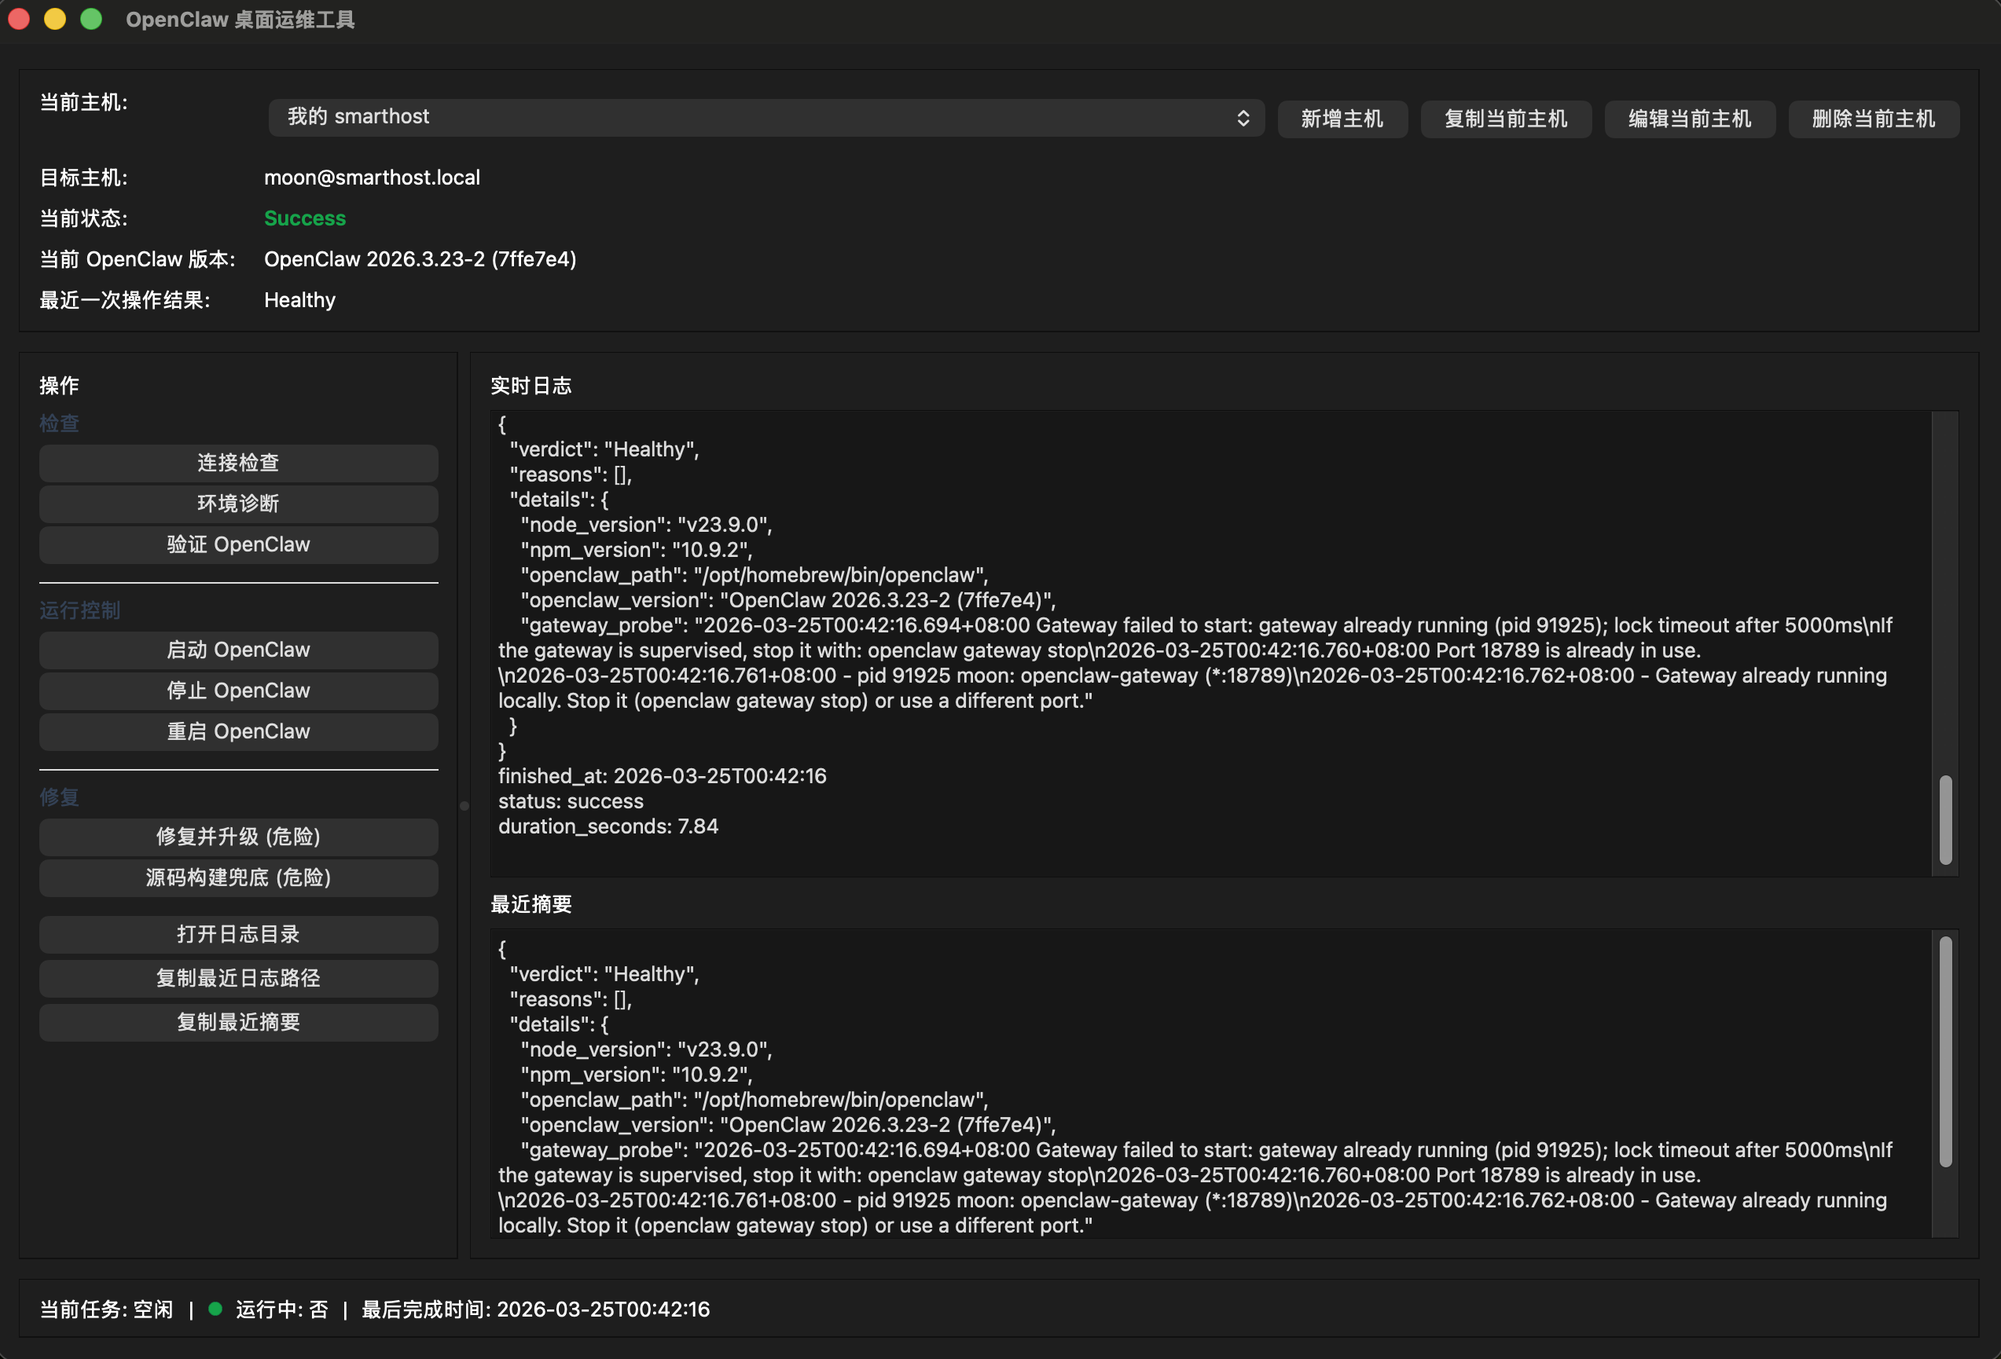
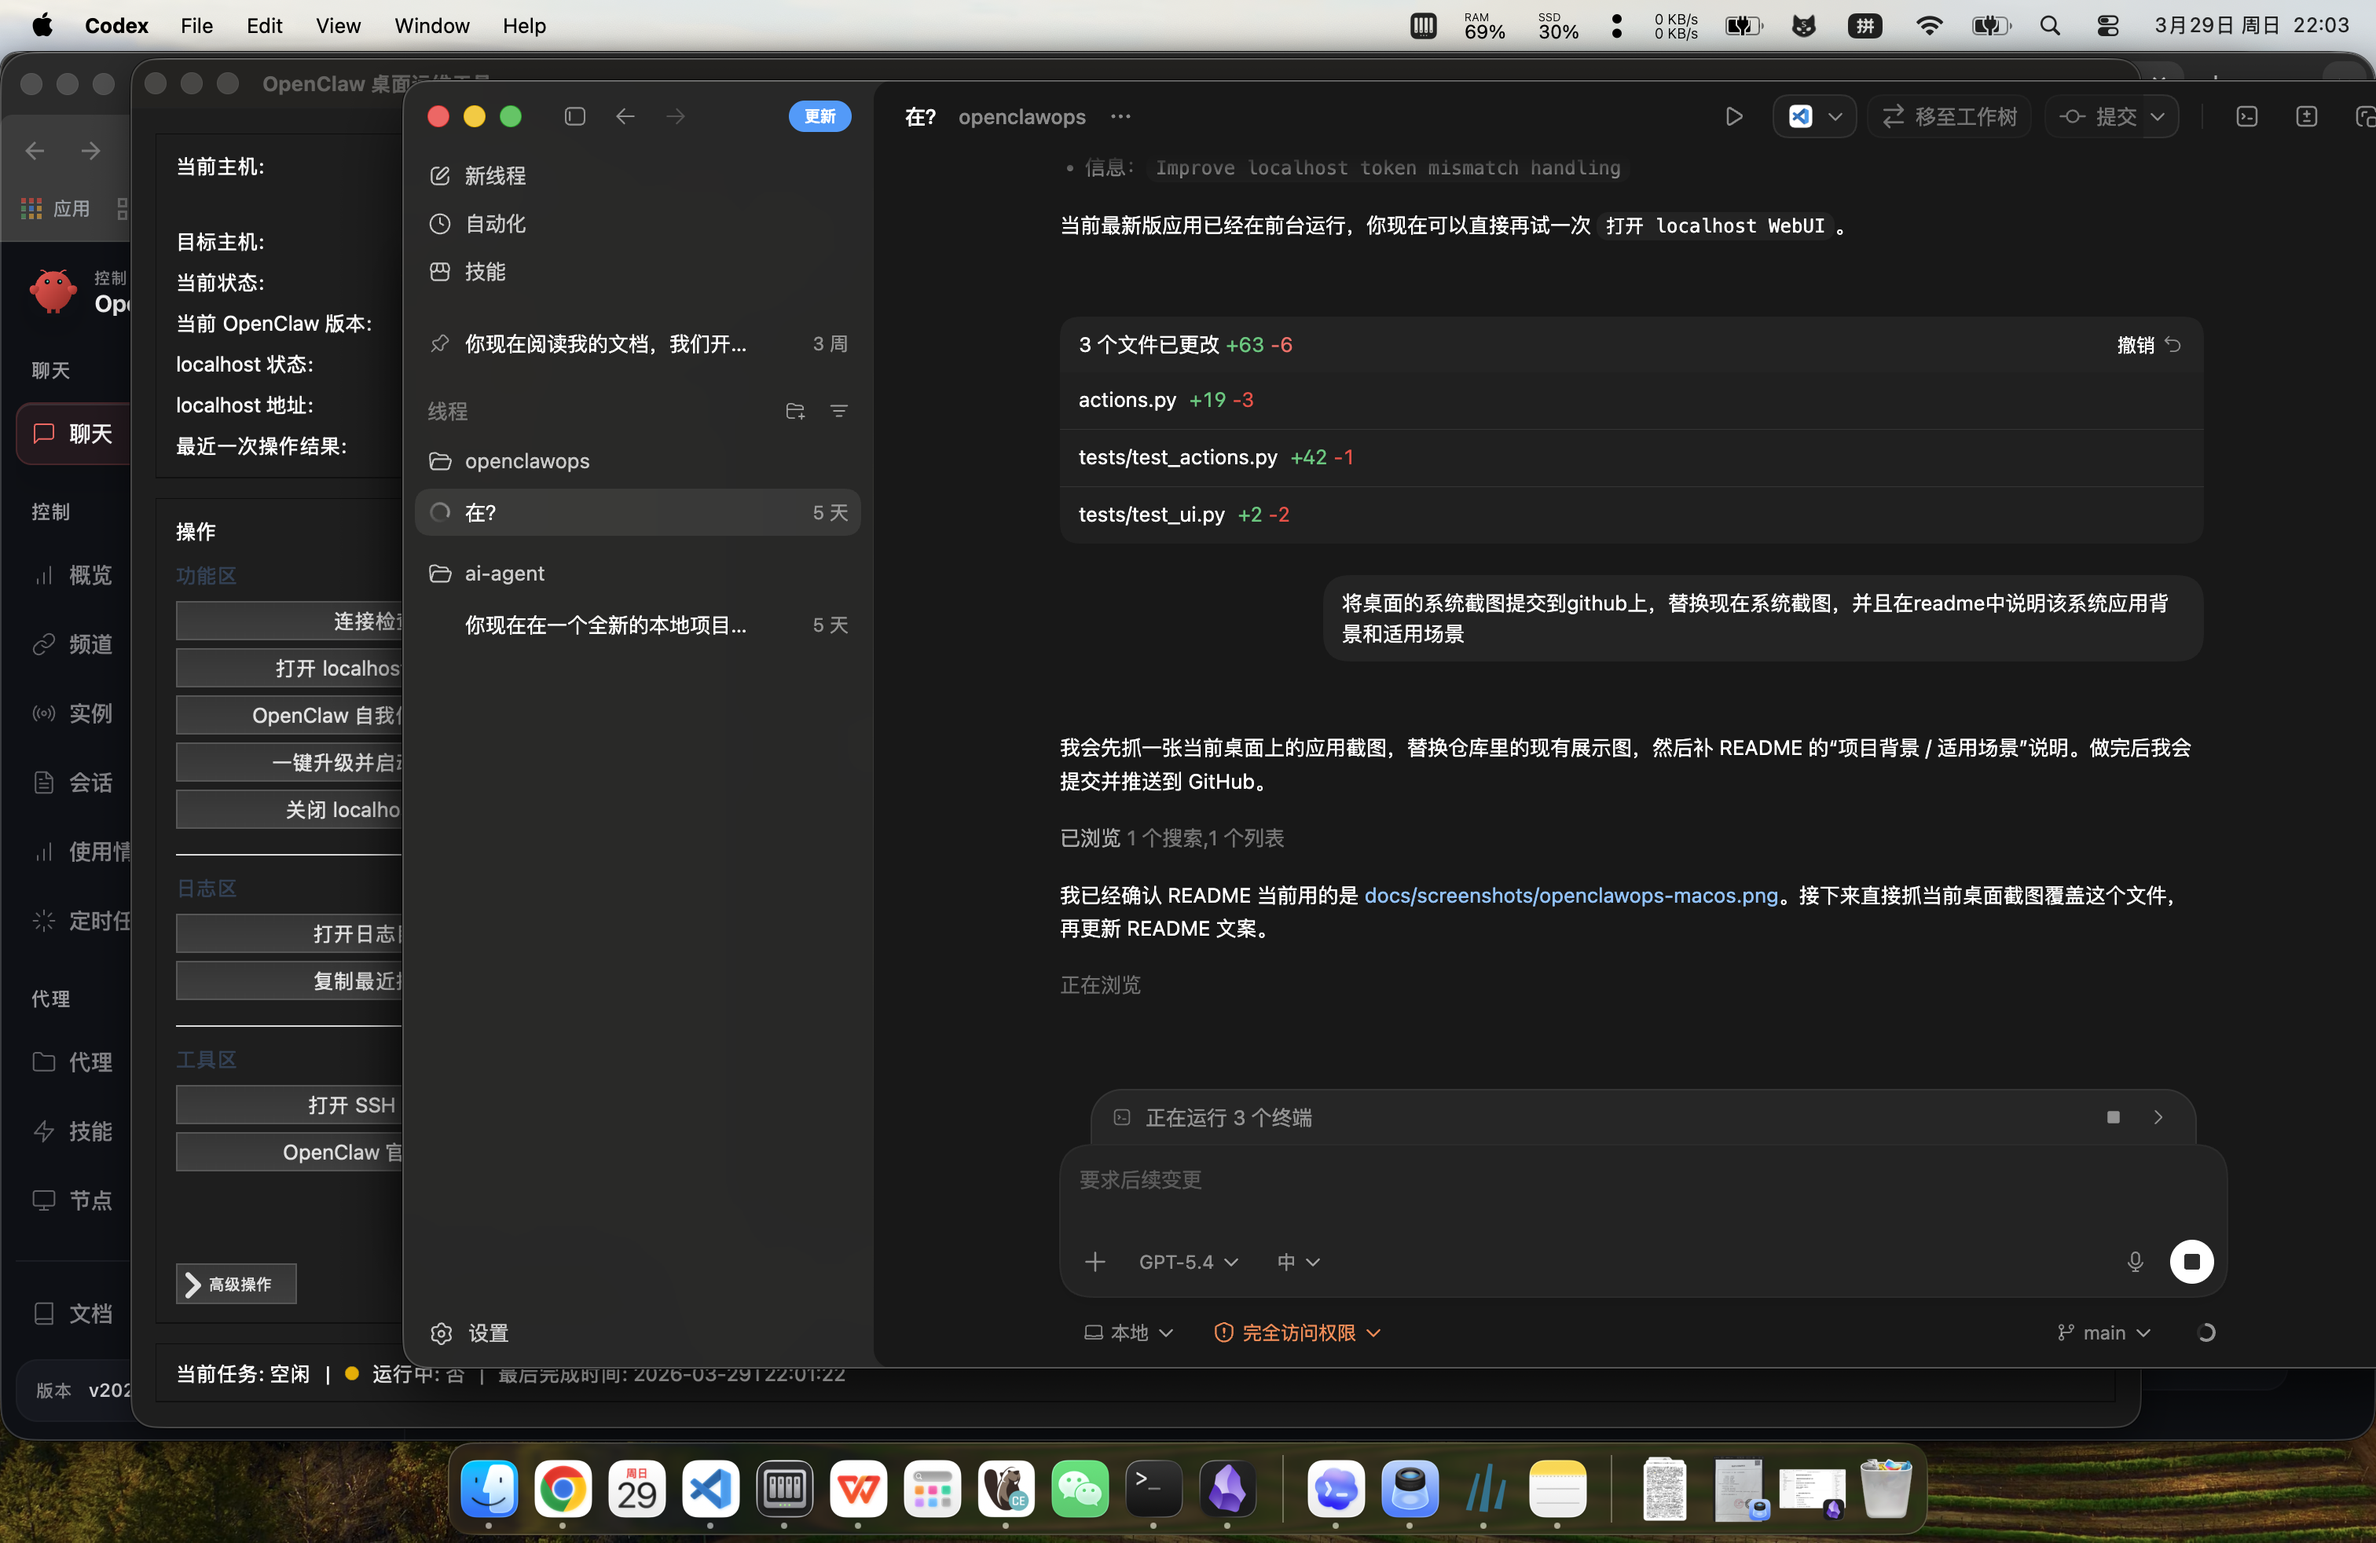
Refresh screenshot and README context

diff --git a/README.md b/README.md
@@ -1,8 +1,29 @@
 # OpenClawOps
 
-一个基于 Python `PyQt6` 的桌面运维工具，用来通过本机 `ssh` 连接远程主机，执行 OpenClaw 相关的连接检查、环境诊断、版本检查、修复升级和源码构建兜底。
+一个基于 Python `PyQt6` 的桌面运维工具，用来通过本机 `ssh` 连接远程主机，集中处理 OpenClaw 的连接检查、WebUI 访问、自我修复、升级启动和常见故障排查。
 
 ![OpenClawOps Screenshot](docs/screenshots/openclawops-macos.png)
+
+## 项目背景
+
+这个工具的目标不是替代 OpenClaw 官方 CLI，而是把远程运维里最常见、最容易出错的几个动作收敛成桌面入口。
+
+典型场景是：
+
+- OpenClaw 运行在另一台 Mac、Linux 主机或家庭服务器上
+- 当前管理端无法直接访问远端的 WebUI，只能先通过 `ssh` 登录
+- 需要在图形界面里快速完成连接检查、localhost 转发、升级、自我修复和日志查看
+- 希望降低手动输入命令、复制 token、处理 SSH 参数和定位历史故障的成本
+
+因此，OpenClawOps 更像是一个“面向远程 OpenClaw 节点的桌面运维控制台”，而不是通用 SSH 客户端。
+
+## 适用场景
+
+- 使用一台本地 MacBook 远程管理另一台运行 OpenClaw 的主机
+- 家庭服务器、开发机、测试机上的 OpenClaw 日常维护
+- WebUI 无法直连时，通过 SSH 隧道临时转发到本机 `127.0.0.1`
+- OpenClaw 升级后需要快速验证版本、健康状态和网关访问
+- 遇到历史兼容问题时，需要快速执行自我修复或源码构建兜底
 
 ## License
 
@@ -12,22 +33,29 @@ MIT. See [LICENSE](/Users/moon/openclawops/LICENSE).
 
 - 多主机配置：支持在界面中新增、复制、编辑、删除主机配置
 - 连接测试：主机编辑弹窗里可直接测试 SSH 连通性
-- 顺序化操作流：
+- 主流程按钮：
   - `连接检查`
+  - `打开 localhost WebUI`
+  - `OpenClaw 自我修复`
+  - `一键升级并启动`
+  - `关闭 localhost 访问`
+- 高级操作：
   - `环境诊断`
-  - `修复并升级`
   - `验证 OpenClaw`
   - `源码构建兜底`
+- 工具区：
+  - `打开 SSH 终端`
+  - `OpenClaw 官方命令`
 - 状态指示：
   - 绿灯：成功
   - 黄灯：告警
   - 红灯：失败
   - 蓝灯：运行中
   - 灰灯：空闲
-- 版本检查：
-  - 独立的 `最新版检查`
-  - `环境诊断` 内会自动比较当前版本和 npm 最新版本
-  - 如果发现版本落后，会弹窗提示并把最近一次操作结果标记为 `需升级`
+- localhost 访问：
+  - 顶部显示 `localhost 状态` 与当前访问地址
+  - 打开 WebUI 时会自动确认并按需建立本地转发
+  - 会自动获取或生成 gateway token，并用本机地址打开
 
 ## 本地运行
 
@@ -64,15 +92,13 @@ Windows 打包产物：
 - `DISPLAY_NAME`
 - `REMOTE_HOST`
 - `REMOTE_USER`
-- `REMOTE_PATH_PREFIX`
 - `SSH_IDENTITIES_ONLY`
 - `SSH_IDENTITY_FILE`
 - `SSH_CONFIG_PATH`
-- `OPENCLAW_REPO_URL`
-- `REMOTE_WORKDIR`
-- `NPM_GLOBAL_ROOT`
 - `COMMAND_TIMEOUT_SECONDS`
 - `GATEWAY_PROBE_TIMEOUT_SECONDS`
+- `GATEWAY_WEB_PORT`
+- `LOCAL_FORWARD_PORT`
 
 额外主机会以 profile 形式写入 `.env`，例如：
 
